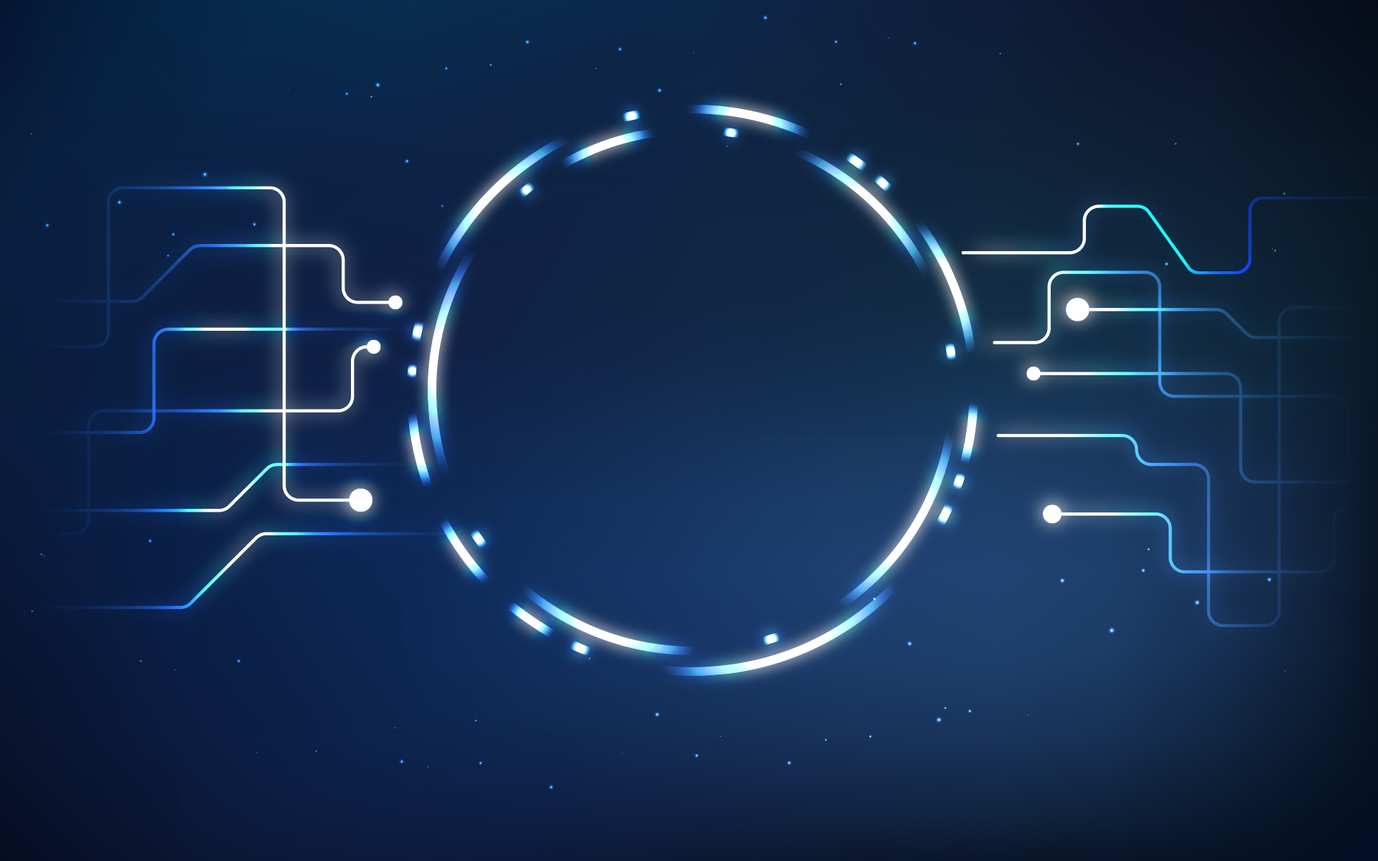
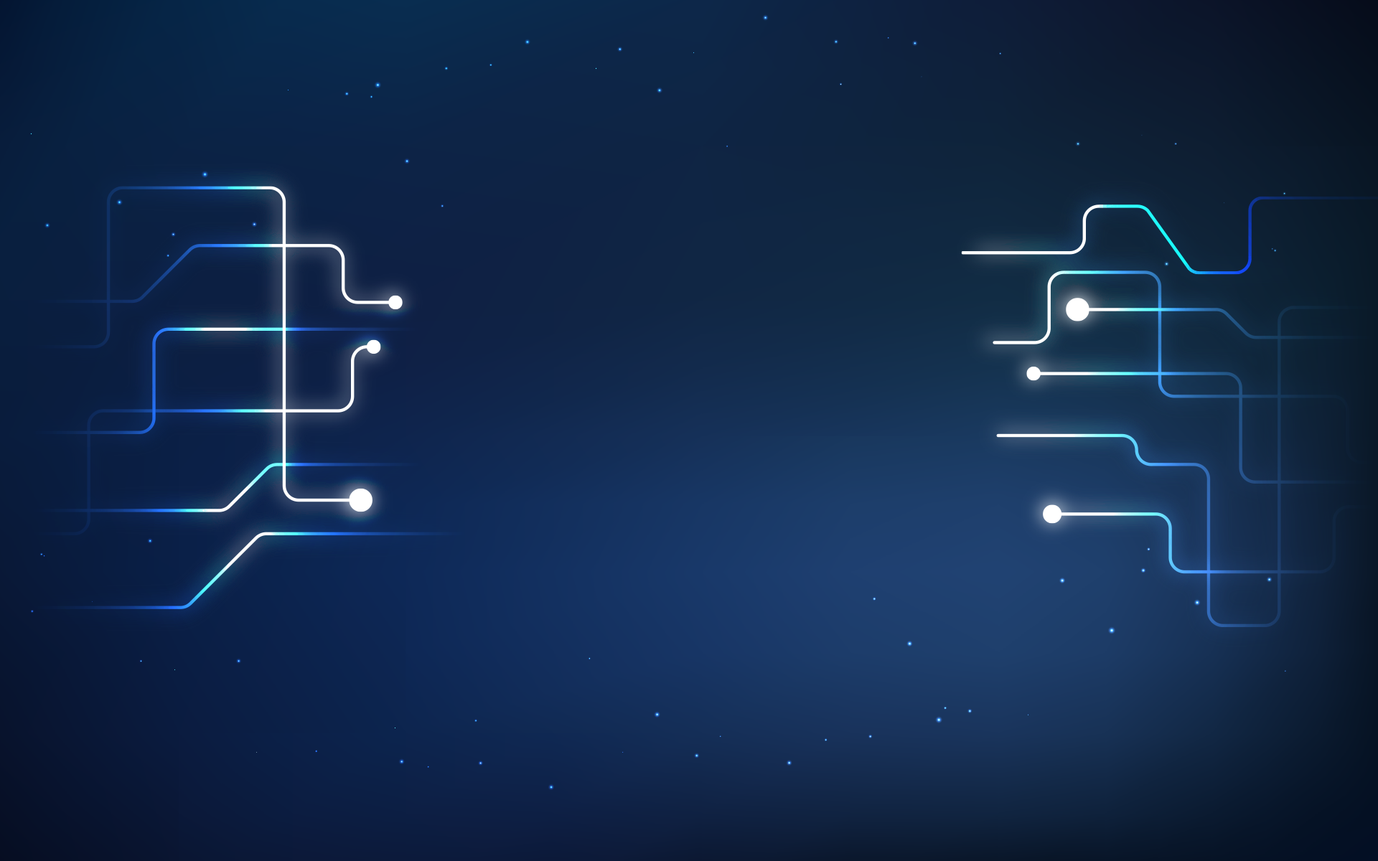
2
2

diff --git a/files/index/data.js b/files/index/data.js
@@ -1,7 +1,7 @@
 $axure.loadCurrentPage(
 (function() {
     var _ = function() { var r={},a=arguments; for(var i=0; i<a.length; i+=2) r[a[i]]=a[i+1]; return r; }
-    var _creator = function() { return _(b,c,d,e,f,g,h,g,i,[j],k,_(l,m,n,o,p,q,r,_(),s,_(t,u,v,w,x,_(y,z,A,B),C,null,D,w,E,w,F,G,H,null,I,J,K,L,M,N,O,J),P,_(),Q,_(),R,_(S,[_(T,U,V,W,X,Y,n,Z,ba,Z,bb,bc,s,_(t,bd,be,_(bf,bg,bh,bi)),P,_(),bj,_(),S,[_(T,bk,V,W,X,null,bl,bc,n,bm,ba,bn,bb,bc,s,_(t,bd,be,_(bf,bg,bh,bi)),P,_(),bj,_())],bo,_(bp,bq)),_(T,br,V,bs,X,Y,n,Z,ba,Z,bb,bc,s,_(t,bd,be,_(bf,bg,bh,bi)),P,_(),bj,_(),S,[_(T,bt,V,W,X,null,bl,bc,n,bm,ba,bn,bb,bc,s,_(t,bd,be,_(bf,bg,bh,bi)),P,_(),bj,_())],bo,_(bp,bu)),_(T,bv,V,bw,X,Y,n,Z,ba,Z,bb,g,s,_(t,bd,be,_(bf,bg,bh,bi),bb,g),P,_(),bj,_(),S,[_(T,bx,V,W,X,null,bl,bc,n,bm,ba,bn,bb,g,s,_(t,bd,be,_(bf,bg,bh,bi),bb,g),P,_(),bj,_())],bo,_(bp,by)),_(T,bz,V,bA,X,Y,n,Z,ba,Z,bb,bc,s,_(t,bd,be,_(bf,bg,bh,bi)),P,_(),bj,_(),S,[_(T,bB,V,W,X,null,bl,bc,n,bm,ba,bn,bb,bc,s,_(t,bd,be,_(bf,bg,bh,bi)),P,_(),bj,_())],Q,_(bC,_(bD,bE,bF,[_(bD,bG,bH,g,bI,[_(bJ,bK,bD,bL,bM,[_(bN,[bv],bO,_(bP,bQ,bR,_(bS,bT,bU,bV,bW,bT,bX,bV,bY,bZ,ca,g)))]),_(bJ,cb,bD,cc,cd,[_(bN,[ce],cf,_(bf,_(cg,ch,ci,cj,ck,[]),bh,_(cg,ch,ci,cl,ck,[]),cm,cn,bS,co,bU,cp))]),_(bJ,cq,bD,cr,cs,_(cg,ct,cu,[_(cg,cv,cw,cx,cy,[_(cg,cz,cA,g,cB,g,cC,g,ci,[cD]),_(cg,ch,ci,cE,ck,[])])]))])])),cF,bc,bo,_(bp,cG)),_(T,cH,V,W,X,Y,n,Z,ba,Z,bb,bc,s,_(t,bd,be,_(bf,cI,bh,cJ),cK,_(cL,cM,cN,cO)),P,_(),bj,_(),S,[_(T,cP,V,W,X,null,bl,bc,n,bm,ba,bn,bb,bc,s,_(t,bd,be,_(bf,cI,bh,cJ),cK,_(cL,cM,cN,cO)),P,_(),bj,_())],bo,_(bp,cQ)),_(T,ce,V,cR,X,cS,n,cT,ba,cT,bb,bc,s,_(be,_(bf,cU,bh,cV),t,cW,cK,_(cL,cX,cN,cY),cZ,da,x,_(y,db,dc,[_(A,dd),_(A,dd),_(A,de),_(A,de)])),P,_(),bj,_(),S,[_(T,df,V,W,X,null,bl,bc,n,bm,ba,bn,bb,bc,s,_(be,_(bf,cU,bh,cV),t,cW,cK,_(cL,cX,cN,cY),cZ,da,x,_(y,db,dc,[_(A,dd),_(A,dd),_(A,de),_(A,de)])),P,_(),bj,_())],dg,g),_(T,dh,V,W,X,cS,n,cT,ba,cT,bb,bc,s,_(di,dj,be,_(bf,dk,bh,dl),t,dm,cK,_(cL,cX,cN,dn),dp,_(y,z,A,B,dq,dr)),P,_(),bj,_(),S,[_(T,ds,V,W,X,null,bl,bc,n,bm,ba,bn,bb,bc,s,_(di,dj,be,_(bf,dk,bh,dl),t,dm,cK,_(cL,cX,cN,dn),dp,_(y,z,A,B,dq,dr)),P,_(),bj,_())],dg,g),_(T,cD,V,dt,X,cS,n,cT,ba,cT,bb,bc,s,_(di,dj,be,_(bf,du,bh,dl),t,dm,cK,_(cL,dv,cN,dn),dw,dx,dp,_(y,z,A,B,dq,dr)),P,_(),bj,_(),S,[_(T,dy,V,W,X,null,bl,bc,n,bm,ba,bn,bb,bc,s,_(di,dj,be,_(bf,du,bh,dl),t,dm,cK,_(cL,dv,cN,dn),dw,dx,dp,_(y,z,A,B,dq,dr)),P,_(),bj,_())],Q,_(dz,_(bD,dA,bF,[_(bD,dB,bH,g,dC,_(cg,dD,dE,dF,dG,_(cg,cv,cw,dH,cy,[_(cg,cz,cA,bc,cB,g,cC,g)]),dI,_(cg,ch,ci,dJ,ck,[])),bI,[_(bJ,cq,bD,dK,cs,_(cg,ct,cu,[_(cg,cv,cw,dL,cy,[_(cg,cz,cA,g,cB,g,cC,g,ci,[dy]),_(cg,ch,ci,dM,dN,_(dO,_(cg,cv,cw,dH,cy,[_(cg,cz,cA,bc,cB,g,cC,g)])),ck,[_(dP,dQ,dE,dR,dS,_(dP,dT,p,dO),dU,_(dV,dW,dP,dX,ci,dr))]),_(cg,dY,ci,bc)])])),_(bJ,dZ,bD,ea,eb,ec),_(bJ,cq,bD,cr,cs,_(cg,ct,cu,[_(cg,cv,cw,cx,cy,[_(cg,cz,cA,g,cB,g,cC,g,ci,[cD]),_(cg,ch,ci,cE,ck,[])])]))])])),dg,g)])),ed,_(),ee,_(ef,_(eg,eh),ei,_(eg,ej),ek,_(eg,el),em,_(eg,en),eo,_(eg,ep),eq,_(eg,er),es,_(eg,et),eu,_(eg,ev),ew,_(eg,ex),ey,_(eg,ez),eA,_(eg,eB),eC,_(eg,eD),eE,_(eg,eF),eG,_(eg,eH),eI,_(eg,eJ),eK,_(eg,eL)));}; 
-var b="url",c="index.html",d="generationDate",e=new Date(1545929803796.7),f="isCanvasEnabled",g=false,h="isAdaptiveEnabled",i="variables",j="OnLoadVariable",k="page",l="packageId",m="587c2299463848adaa3b182771561f1c",n="type",o="Axure:Page",p="name",q="index",r="notes",s="style",t="baseStyle",u="627587b6038d43cca051c114ac41ad32",v="pageAlignment",w="near",x="fill",y="fillType",z="solid",A="color",B=0xFFFFFFFF,C="image",D="imageHorizontalAlignment",E="imageVerticalAlignment",F="imageRepeat",G="auto",H="favicon",I="sketchFactor",J="0",K="colorStyle",L="appliedColor",M="fontName",N="Applied Font",O="borderWidth",P="adaptiveStyles",Q="interactionMap",R="diagram",S="objects",T="id",U="fa04f54b8c344a848b87f8c1ab4cecd9",V="label",W="",X="friendlyType",Y="图片",Z="imageBox",ba="styleType",bb="visible",bc=true,bd="75a91ee5b9d042cfa01b8d565fe289c0",be="size",bf="width",bg=1920,bh="height",bi=1200,bj="imageOverrides",bk="f1991d1e149842528388fc01c1334a27",bl="isContained",bm="richTextPanel",bn="paragraph",bo="images",bp="normal~",bq="images/index/u0.png",br="88515a62780c434fa28b4afacdc44007",bs="底圆",bt="fb3e7e9fc949433daf17eac96ac3c65f",bu="images/index/底圆_u2.png",bv="fae573733ccd4445a76c6f87e619aac7",bw="中层圆",bx="a01a0242cd16405d84bf2e9581fe13b4",by="images/index/中层圆_u4.png",bz="ece1ad3f2b454f85b6a81e4cf855cd40",bA="小圆",bB="1cfe11572f1d4a54a9589492c2f454ab",bC="onClick",bD="description",bE="鼠标单击时",bF="cases",bG="Case 1",bH="isNewIfGroup",bI="actions",bJ="action",bK="fadeWidget",bL="显示 中层圆 逐渐 3500 ms",bM="objectsToFades",bN="objectPath",bO="fadeInfo",bP="fadeType",bQ="show",bR="options",bS="easing",bT="fade",bU="duration",bV=3500,bW="easingHide",bX="durationHide",bY="showType",bZ="none",ca="bringToFront",cb="setWidgetSize",cc="设置尺寸于 进度条 to 1350 x 40 anchor 左侧 线性 3000ms",cd="objectsToResize",ce="3d61fab053df45898256bef4277c7867",cf="sizeInfo",cg="exprType",ch="stringLiteral",ci="value",cj="1350",ck="stos",cl="40",cm="anchor",cn="left",co="linear",cp=3000,cq="setFunction",cr="设置 选中状态于 进度数字 = &quot;toggle&quot;",cs="expr",ct="block",cu="subExprs",cv="fcall",cw="functionName",cx="SetCheckState",cy="arguments",cz="pathLiteral",cA="isThis",cB="isFocused",cC="isTarget",cD="b3b6c8c29bba42e8afe6cec496e67df5",cE="toggle",cF="tabbable",cG="images/index/小圆_u6.png",cH="abe6d68c592b43f2b65f782f4d3cf1d2",cI=1364,cJ=52,cK="location",cL="x",cM=278,cN="y",cO=1095.46153846154,cP="5499ded823304691aafbbbaed9146c87",cQ="images/index/u8.png",cR="进度条",cS="矩形",cT="vectorShape",cU=13,cV=40,cW="47641f9a00ac465095d6b672bbdffef6",cX=285,cY=1101,cZ="cornerRadius",da="4",db="linearGradient",dc="colors",dd=0xFF2BA3E9,de=0xFF2E417C,df="55a1b99d972c4677a1a3bbbb1b93a1f6",dg="generateCompound",dh="5d06c0d5aeed403eb471991738c22117",di="fontWeight",dj="700",dk=281,dl=37,dm="1111111151944dfba49f67fd55eb1f88",dn=1028,dp="foreGroundFill",dq="opacity",dr=1,ds="a4762fec45124b9781360c51c14c52a1",dt="进度数字",du=62,dv=472,dw="horizontalAlignment",dx="center",dy="c4e34aceaae14fa8a21a5c99492e923d",dz="onSelectedChange",dA="选中改变时",dB="Case 1<br> (If 文字于 This &lt; &quot;100&quot;)",dC="condition",dD="binaryOp",dE="op",dF="<",dG="leftExpr",dH="GetWidgetText",dI="rightExpr",dJ="100",dK="设置 文字于 进度数字 = &quot;[[LVAR1+1]]&quot;",dL="SetWidgetRichText",dM="[[LVAR1+1]]",dN="localVariables",dO="lvar1",dP="sto",dQ="binOp",dR="+",dS="leftSTO",dT="var",dU="rightSTO",dV="computedType",dW="int",dX="literal",dY="booleanLiteral",dZ="wait",ea="等待 15 毫秒",eb="waitTime",ec=15,ed="masters",ee="objectPaths",ef="fa04f54b8c344a848b87f8c1ab4cecd9",eg="scriptId",eh="u0",ei="f1991d1e149842528388fc01c1334a27",ej="u1",ek="88515a62780c434fa28b4afacdc44007",el="u2",em="fb3e7e9fc949433daf17eac96ac3c65f",en="u3",eo="fae573733ccd4445a76c6f87e619aac7",ep="u4",eq="a01a0242cd16405d84bf2e9581fe13b4",er="u5",es="ece1ad3f2b454f85b6a81e4cf855cd40",et="u6",eu="1cfe11572f1d4a54a9589492c2f454ab",ev="u7",ew="abe6d68c592b43f2b65f782f4d3cf1d2",ex="u8",ey="5499ded823304691aafbbbaed9146c87",ez="u9",eA="3d61fab053df45898256bef4277c7867",eB="u10",eC="55a1b99d972c4677a1a3bbbb1b93a1f6",eD="u11",eE="5d06c0d5aeed403eb471991738c22117",eF="u12",eG="a4762fec45124b9781360c51c14c52a1",eH="u13",eI="b3b6c8c29bba42e8afe6cec496e67df5",eJ="u14",eK="c4e34aceaae14fa8a21a5c99492e923d",eL="u15";
+    var _creator = function() { return _(b,c,d,e,f,g,h,g,i,[j],k,_(l,m,n,o,p,q,r,_(),s,_(t,u,v,w,x,_(y,z,A,B),C,null,D,E,F,E,G,H,I,null,J,K,L,M,N,O,P,K),Q,_(),R,_(S,_(T,U,V,[_(T,W,X,g,Y,[_(Z,ba,T,bb,bc,[_(bd,[be],bf,_(bg,bh,bi,_(bj,bk,bl,bm,bn,[]),bo,_(bj,bk,bl,K,bn,[]),bp,_(bj,bk,bl,K,bn,[]),bq,w,br,_(bs,bt,bu,bv,bw,bx))),_(bd,[by],bf,_(bg,bh,bi,_(bj,bk,bl,bm,bn,[]),bo,_(bj,bk,bl,K,bn,[]),bp,_(bj,bk,bl,K,bn,[]),bq,w,br,_(bs,g,bu,bv,bw,bx)))]),_(Z,bz,T,bA,bB,bC),_(Z,bD,T,bE,bF,_(bj,bG,bH,[_(bj,bI,bJ,bK,bL,[_(bj,bM,bN,g,bO,g,bP,g,bl,[bQ]),_(bj,bk,bl,bR,bn,[])])]))])])),bS,_(bT,[_(bU,bQ,bV,bW,bX,bY,n,bZ,ca,bZ,cb,bt,s,_(t,cc,cd,_(ce,cf,cg,ch)),Q,_(),ci,_(),bT,[_(bU,cj,bV,bW,bX,null,ck,bt,n,cl,ca,cm,cb,bt,s,_(t,cc,cd,_(ce,cf,cg,ch)),Q,_(),ci,_())],R,_(cn,_(T,co,V,[_(T,W,X,g,Y,[_(Z,ba,T,bb,bc,[_(bd,[be],bf,_(bg,bh,bi,_(bj,bk,bl,bm,bn,[]),bo,_(bj,bk,bl,K,bn,[]),bp,_(bj,bk,bl,K,bn,[]),bq,w,br,_(bs,bt,bu,bv,bw,bx))),_(bd,[by],bf,_(bg,bh,bi,_(bj,bk,bl,bm,bn,[]),bo,_(bj,bk,bl,K,bn,[]),bp,_(bj,bk,bl,K,bn,[]),bq,w,br,_(bs,g,bu,bv,bw,bx)))]),_(Z,bz,T,bA,bB,bC),_(Z,bD,T,bE,bF,_(bj,bG,bH,[_(bj,bI,bJ,bK,bL,[_(bj,bM,bN,g,bO,g,bP,g,bl,[bQ]),_(bj,bk,bl,bR,bn,[])])]))])])),cp,_(cq,cr)),_(bU,by,bV,cs,bX,bY,n,bZ,ca,bZ,cb,bt,s,_(t,cc,cd,_(ce,ct,cg,ct),cu,_(cv,cw,cx,cy),cz,cA),Q,_(),ci,_(),bT,[_(bU,cB,bV,bW,bX,null,ck,bt,n,cl,ca,cm,cb,bt,s,_(t,cc,cd,_(ce,ct,cg,ct),cu,_(cv,cw,cx,cy),cz,cA),Q,_(),ci,_())],cp,_(cq,cC)),_(bU,be,bV,cD,bX,bY,n,bZ,ca,bZ,cb,bt,s,_(t,cc,cd,_(ce,cE,cg,cE),cu,_(cv,cF,cx,cG),cz,cA,cH,cI,cJ,cI),Q,_(),ci,_(),bT,[_(bU,cK,bV,bW,bX,null,ck,bt,n,cl,ca,cm,cb,bt,s,_(t,cc,cd,_(ce,cE,cg,cE),cu,_(cv,cF,cx,cG),cz,cA,cH,cI,cJ,cI),Q,_(),ci,_())],cp,_(cq,cL)),_(bU,cM,bV,cN,bX,bY,n,bZ,ca,bZ,cb,bt,s,_(t,cc,cd,_(ce,cf,cg,ch)),Q,_(),ci,_(),bT,[_(bU,cO,bV,bW,bX,null,ck,bt,n,cl,ca,cm,cb,bt,s,_(t,cc,cd,_(ce,cf,cg,ch)),Q,_(),ci,_())],cp,_(cq,cP)),_(bU,cQ,bV,cR,bX,bY,n,bZ,ca,bZ,cb,g,s,_(t,cc,cd,_(ce,cf,cg,ch),cb,g),Q,_(),ci,_(),bT,[_(bU,cS,bV,bW,bX,null,ck,bt,n,cl,ca,cm,cb,g,s,_(t,cc,cd,_(ce,cf,cg,ch),cb,g),Q,_(),ci,_())],cp,_(cq,cT)),_(bU,cU,bV,cV,bX,bY,n,bZ,ca,bZ,cb,bt,s,_(t,cc,cd,_(ce,cf,cg,ch)),Q,_(),ci,_(),bT,[_(bU,cW,bV,bW,bX,null,ck,bt,n,cl,ca,cm,cb,bt,s,_(t,cc,cd,_(ce,cf,cg,ch)),Q,_(),ci,_())],R,_(cX,_(T,cY,V,[_(T,W,X,g,Y,[_(Z,cZ,T,da,db,[_(bd,[cQ],dc,_(dd,de,br,_(bu,df,bw,dg,dh,df,di,dg,dj,dk,dl,g)))]),_(Z,dm,T,dn,dp,[_(bd,[dq],dr,_(ce,_(bj,bk,bl,ds,bn,[]),cg,_(bj,bk,bl,dt,bn,[]),bq,du,bu,bv,bw,dv))]),_(Z,bD,T,dw,bF,_(bj,bG,bH,[_(bj,bI,bJ,bK,bL,[_(bj,bM,bN,g,bO,g,bP,g,bl,[dx]),_(bj,bk,bl,bR,bn,[])])]))])])),dy,bt,cp,_(cq,dz)),_(bU,dA,bV,bW,bX,bY,n,bZ,ca,bZ,cb,bt,s,_(t,cc,cd,_(ce,dB,cg,dC),cu,_(cv,dD,cx,dE)),Q,_(),ci,_(),bT,[_(bU,dF,bV,bW,bX,null,ck,bt,n,cl,ca,cm,cb,bt,s,_(t,cc,cd,_(ce,dB,cg,dC),cu,_(cv,dD,cx,dE)),Q,_(),ci,_())],cp,_(cq,dG)),_(bU,dq,bV,dH,bX,dI,n,dJ,ca,dJ,cb,bt,s,_(cd,_(ce,dK,cg,dL),t,dM,cu,_(cv,dN,cx,dO),dP,dQ,x,_(y,dR,dS,[_(A,dT),_(A,dT),_(A,dU),_(A,dU)])),Q,_(),ci,_(),bT,[_(bU,dV,bV,bW,bX,null,ck,bt,n,cl,ca,cm,cb,bt,s,_(cd,_(ce,dK,cg,dL),t,dM,cu,_(cv,dN,cx,dO),dP,dQ,x,_(y,dR,dS,[_(A,dT),_(A,dT),_(A,dU),_(A,dU)])),Q,_(),ci,_())],dW,g),_(bU,dX,bV,bW,bX,dI,n,dJ,ca,dJ,cb,bt,s,_(dY,dZ,cd,_(ce,ea,cg,eb),t,ec,cu,_(cv,dN,cx,ed),ee,_(y,z,A,B,cz,ef)),Q,_(),ci,_(),bT,[_(bU,eg,bV,bW,bX,null,ck,bt,n,cl,ca,cm,cb,bt,s,_(dY,dZ,cd,_(ce,ea,cg,eb),t,ec,cu,_(cv,dN,cx,ed),ee,_(y,z,A,B,cz,ef)),Q,_(),ci,_())],dW,g),_(bU,dx,bV,eh,bX,dI,n,dJ,ca,dJ,cb,bt,s,_(dY,dZ,cd,_(ce,ei,cg,eb),t,ec,cu,_(cv,ej,cx,ed),ek,w,ee,_(y,z,A,B,cz,ef)),Q,_(),ci,_(),bT,[_(bU,el,bV,bW,bX,null,ck,bt,n,cl,ca,cm,cb,bt,s,_(dY,dZ,cd,_(ce,ei,cg,eb),t,ec,cu,_(cv,ej,cx,ed),ek,w,ee,_(y,z,A,B,cz,ef)),Q,_(),ci,_())],R,_(cn,_(T,co,V,[_(T,em,X,g,en,_(bj,eo,ep,eq,er,_(bj,bI,bJ,es,bL,[_(bj,bM,bN,bt,bO,g,bP,g)]),et,_(bj,bk,bl,eu,bn,[])),Y,[_(Z,bD,T,ev,bF,_(bj,bG,bH,[_(bj,bI,bJ,ew,bL,[_(bj,bM,bN,g,bO,g,bP,g,bl,[el]),_(bj,bk,bl,ex,ey,_(ez,_(bj,bI,bJ,es,bL,[_(bj,bM,bN,bt,bO,g,bP,g)])),bn,[_(eA,eB,ep,eC,eD,_(eA,eE,p,ez),eF,_(eG,eH,eA,eI,bl,ef))]),_(bj,eJ,bl,bt)])])),_(Z,bz,T,eK,bB,eL),_(Z,bD,T,dw,bF,_(bj,bG,bH,[_(bj,bI,bJ,bK,bL,[_(bj,bM,bN,g,bO,g,bP,g,bl,[dx]),_(bj,bk,bl,bR,bn,[])])]))])])),dW,g)])),eM,_(),eN,_(eO,_(eP,eQ),eR,_(eP,eS),eT,_(eP,eU),eV,_(eP,eW),eX,_(eP,eY),eZ,_(eP,fa),fb,_(eP,fc),fd,_(eP,fe),ff,_(eP,fg),fh,_(eP,fi),fj,_(eP,fk),fl,_(eP,fm),fn,_(eP,fo),fp,_(eP,fq),fr,_(eP,fs),ft,_(eP,fu),fv,_(eP,fw),fx,_(eP,fy),fz,_(eP,fA),fB,_(eP,fC)));}; 
+var b="url",c="index.html",d="generationDate",e=new Date(1545931041206.74),f="isCanvasEnabled",g=false,h="isAdaptiveEnabled",i="variables",j="OnLoadVariable",k="page",l="packageId",m="587c2299463848adaa3b182771561f1c",n="type",o="Axure:Page",p="name",q="index",r="notes",s="style",t="baseStyle",u="627587b6038d43cca051c114ac41ad32",v="pageAlignment",w="center",x="fill",y="fillType",z="solid",A="color",B=0xFFFFFFFF,C="image",D="imageHorizontalAlignment",E="near",F="imageVerticalAlignment",G="imageRepeat",H="auto",I="favicon",J="sketchFactor",K="0",L="colorStyle",M="appliedColor",N="fontName",O="Applied Font",P="borderWidth",Q="adaptiveStyles",R="interactionMap",S="onLoad",T="description",U="页面载入时",V="cases",W="Case 1",X="isNewIfGroup",Y="actions",Z="action",ba="rotateWidget",bb="旋转xiao by 360 deg 线性 10000ms clockwise anchor center,<br>da by 360 deg 线性 10000ms counterclockwise anchor center",bc="objectsToRotate",bd="objectPath",be="38f68cb97f204092b218853e0ac46013",bf="rotateInfo",bg="rotateType",bh="delta",bi="degree",bj="exprType",bk="stringLiteral",bl="value",bm="360",bn="stos",bo="offsetX",bp="offsetY",bq="anchor",br="options",bs="clockwise",bt=true,bu="easing",bv="linear",bw="duration",bx=10000,by="9d2206a8b58e4633b198583c1cc8b814",bz="wait",bA="等待 20 毫秒",bB="waitTime",bC=20,bD="setFunction",bE="设置 选中状态于 (图片) = &quot;toggle&quot;",bF="expr",bG="block",bH="subExprs",bI="fcall",bJ="functionName",bK="SetCheckState",bL="arguments",bM="pathLiteral",bN="isThis",bO="isFocused",bP="isTarget",bQ="48e8b4e211fe4c659c221a5a716f8e2c",bR="toggle",bS="diagram",bT="objects",bU="id",bV="label",bW="",bX="friendlyType",bY="图片",bZ="imageBox",ca="styleType",cb="visible",cc="75a91ee5b9d042cfa01b8d565fe289c0",cd="size",ce="width",cf=1920,cg="height",ch=1200,ci="imageOverrides",cj="149f686477ee4d5592b2b33e1c535db9",ck="isContained",cl="richTextPanel",cm="paragraph",cn="onSelectedChange",co="选中改变时",cp="images",cq="normal~",cr="images/index/u0.png",cs="da",ct=900,cu="location",cv="x",cw=518,cx="y",cy=90,cz="opacity",cA="0.5",cB="5de9832e4c6f418fa8344fae6f0a727e",cC="images/index/da_u2.png",cD="xiao",cE=840,cF=548,cG=120,cH="rotation",cI="30",cJ="textRotation",cK="4e4d15c679614de4a950e92a5a8dd8e6",cL="images/index/xiao_u4.png",cM="88515a62780c434fa28b4afacdc44007",cN="底圆",cO="fb3e7e9fc949433daf17eac96ac3c65f",cP="images/index/底圆_u6.png",cQ="fae573733ccd4445a76c6f87e619aac7",cR="中层圆",cS="a01a0242cd16405d84bf2e9581fe13b4",cT="images/index/中层圆_u8.png",cU="ece1ad3f2b454f85b6a81e4cf855cd40",cV="小圆",cW="1cfe11572f1d4a54a9589492c2f454ab",cX="onClick",cY="鼠标单击时",cZ="fadeWidget",da="显示 中层圆 逐渐 3500 ms",db="objectsToFades",dc="fadeInfo",dd="fadeType",de="show",df="fade",dg=3500,dh="easingHide",di="durationHide",dj="showType",dk="none",dl="bringToFront",dm="setWidgetSize",dn="设置尺寸于 进度条 to 1350 x 40 anchor 左侧 线性 3000ms",dp="objectsToResize",dq="3d61fab053df45898256bef4277c7867",dr="sizeInfo",ds="1350",dt="40",du="left",dv=3000,dw="设置 选中状态于 进度数字 = &quot;toggle&quot;",dx="b3b6c8c29bba42e8afe6cec496e67df5",dy="tabbable",dz="images/index/小圆_u10.png",dA="abe6d68c592b43f2b65f782f4d3cf1d2",dB=1364,dC=52,dD=278,dE=1095.46153846154,dF="5499ded823304691aafbbbaed9146c87",dG="images/index/u12.png",dH="进度条",dI="矩形",dJ="vectorShape",dK=13,dL=40,dM="47641f9a00ac465095d6b672bbdffef6",dN=285,dO=1101,dP="cornerRadius",dQ="4",dR="linearGradient",dS="colors",dT=0xFF2BA3E9,dU=0xFF2E417C,dV="55a1b99d972c4677a1a3bbbb1b93a1f6",dW="generateCompound",dX="5d06c0d5aeed403eb471991738c22117",dY="fontWeight",dZ="700",ea=281,eb=37,ec="1111111151944dfba49f67fd55eb1f88",ed=1028,ee="foreGroundFill",ef=1,eg="a4762fec45124b9781360c51c14c52a1",eh="进度数字",ei=62,ej=472,ek="horizontalAlignment",el="c4e34aceaae14fa8a21a5c99492e923d",em="Case 1<br> (If 文字于 This &lt; &quot;100&quot;)",en="condition",eo="binaryOp",ep="op",eq="<",er="leftExpr",es="GetWidgetText",et="rightExpr",eu="100",ev="设置 文字于 进度数字 = &quot;[[LVAR1+1]]&quot;",ew="SetWidgetRichText",ex="[[LVAR1+1]]",ey="localVariables",ez="lvar1",eA="sto",eB="binOp",eC="+",eD="leftSTO",eE="var",eF="rightSTO",eG="computedType",eH="int",eI="literal",eJ="booleanLiteral",eK="等待 15 毫秒",eL=15,eM="masters",eN="objectPaths",eO="48e8b4e211fe4c659c221a5a716f8e2c",eP="scriptId",eQ="u0",eR="149f686477ee4d5592b2b33e1c535db9",eS="u1",eT="9d2206a8b58e4633b198583c1cc8b814",eU="u2",eV="5de9832e4c6f418fa8344fae6f0a727e",eW="u3",eX="38f68cb97f204092b218853e0ac46013",eY="u4",eZ="4e4d15c679614de4a950e92a5a8dd8e6",fa="u5",fb="88515a62780c434fa28b4afacdc44007",fc="u6",fd="fb3e7e9fc949433daf17eac96ac3c65f",fe="u7",ff="fae573733ccd4445a76c6f87e619aac7",fg="u8",fh="a01a0242cd16405d84bf2e9581fe13b4",fi="u9",fj="ece1ad3f2b454f85b6a81e4cf855cd40",fk="u10",fl="1cfe11572f1d4a54a9589492c2f454ab",fm="u11",fn="abe6d68c592b43f2b65f782f4d3cf1d2",fo="u12",fp="5499ded823304691aafbbbaed9146c87",fq="u13",fr="3d61fab053df45898256bef4277c7867",fs="u14",ft="55a1b99d972c4677a1a3bbbb1b93a1f6",fu="u15",fv="5d06c0d5aeed403eb471991738c22117",fw="u16",fx="a4762fec45124b9781360c51c14c52a1",fy="u17",fz="b3b6c8c29bba42e8afe6cec496e67df5",fA="u18",fB="c4e34aceaae14fa8a21a5c99492e923d",fC="u19";
 return _creator();
 })());

diff --git a/index.html b/index.html
@@ -60,65 +60,83 @@
         </div>
       </div>
 
-      <!-- 底圆 (图片) -->
-      <div id="u2" class="ax_default _图片" data-label="底圆">
-        <img id="u2_img" class="img " src="images/index/底圆_u2.png"/>
+      <!-- da (图片) -->
+      <div id="u2" class="ax_default _图片" data-label="da">
+        <img id="u2_img" class="img " src="images/index/da_u2.png"/>
         <!-- Unnamed () -->
         <div id="u3" class="text" style="display: none; visibility: hidden">
           <p><span></span></p>
         </div>
       </div>
 
-      <!-- 中层圆 (图片) -->
-      <div id="u4" class="ax_default _图片 ax_default_hidden" data-label="中层圆" style="display: none; visibility: hidden">
-        <img id="u4_img" class="img " src="images/index/中层圆_u4.png"/>
+      <!-- xiao (图片) -->
+      <div id="u4" class="ax_default _图片" data-label="xiao">
+        <img id="u4_img" class="img " src="images/index/xiao_u4.png"/>
         <!-- Unnamed () -->
         <div id="u5" class="text" style="display: none; visibility: hidden">
           <p><span></span></p>
         </div>
       </div>
 
-      <!-- 小圆 (图片) -->
-      <div id="u6" class="ax_default _图片" data-label="小圆">
-        <img id="u6_img" class="img " src="images/index/小圆_u6.png"/>
+      <!-- 底圆 (图片) -->
+      <div id="u6" class="ax_default _图片" data-label="底圆">
+        <img id="u6_img" class="img " src="images/index/底圆_u6.png"/>
         <!-- Unnamed () -->
         <div id="u7" class="text" style="display: none; visibility: hidden">
           <p><span></span></p>
         </div>
       </div>
 
-      <!-- Unnamed (图片) -->
-      <div id="u8" class="ax_default _图片">
-        <img id="u8_img" class="img " src="images/index/u8.png"/>
+      <!-- 中层圆 (图片) -->
+      <div id="u8" class="ax_default _图片 ax_default_hidden" data-label="中层圆" style="display: none; visibility: hidden">
+        <img id="u8_img" class="img " src="images/index/中层圆_u8.png"/>
         <!-- Unnamed () -->
         <div id="u9" class="text" style="display: none; visibility: hidden">
           <p><span></span></p>
         </div>
       </div>
 
-      <!-- 进度条 (矩形) -->
-      <div id="u10" class="ax_default box_2" data-label="进度条">
-        <div id="u10_div" class=""></div>
+      <!-- 小圆 (图片) -->
+      <div id="u10" class="ax_default _图片" data-label="小圆">
+        <img id="u10_img" class="img " src="images/index/小圆_u10.png"/>
         <!-- Unnamed () -->
         <div id="u11" class="text" style="display: none; visibility: hidden">
           <p><span></span></p>
         </div>
       </div>
 
-      <!-- Unnamed (矩形) -->
-      <div id="u12" class="ax_default _一级标题">
-        <div id="u12_div" class=""></div>
+      <!-- Unnamed (图片) -->
+      <div id="u12" class="ax_default _图片">
+        <img id="u12_img" class="img " src="images/index/u12.png"/>
         <!-- Unnamed () -->
-        <div id="u13" class="text" style="visibility: visible;">
+        <div id="u13" class="text" style="display: none; visibility: hidden">
+          <p><span></span></p>
+        </div>
+      </div>
+
+      <!-- 进度条 (矩形) -->
+      <div id="u14" class="ax_default box_2" data-label="进度条">
+        <div id="u14_div" class=""></div>
+        <!-- Unnamed () -->
+        <div id="u15" class="text" style="display: none; visibility: hidden">
+          <p><span></span></p>
+        </div>
+      </div>
+
+      <!-- Unnamed (矩形) -->
+      <div id="u16" class="ax_default _一级标题">
+        <div id="u16_div" class=""></div>
+        <!-- Unnamed () -->
+        <div id="u17" class="text" style="visibility: visible;">
           <p><span>正在启动......&nbsp; &nbsp; &nbsp; &nbsp; %</span></p>
         </div>
       </div>
 
       <!-- 进度数字 (矩形) -->
-      <div id="u14" class="ax_default _一级标题" data-label="进度数字">
-        <div id="u14_div" class=""></div>
+      <div id="u18" class="ax_default _一级标题" data-label="进度数字">
+        <div id="u18_div" class=""></div>
         <!-- Unnamed () -->
-        <div id="u15" class="text" style="visibility: visible;">
+        <div id="u19" class="text" style="visibility: visible;">
           <p><span>0</span></p>
         </div>
       </div>

diff --git a/files/index/styles.css b/files/index/styles.css
@@ -1,11 +1,11 @@
 body {
   margin:0px;
   background-image:none;
-  position:static;
-  left:auto;
+  position:relative;
+  left:-0px;
   width:1920px;
-  margin-left:0;
-  margin-right:0;
+  margin-left:auto;
+  margin-right:auto;
   text-align:left;
 }
 #base {
@@ -38,21 +38,22 @@
   position:absolute;
   left:0px;
   top:0px;
-  width:1920px;
-  height:1200px;
+  width:900px;
+  height:900px;
 }
 #u2 {
   position:absolute;
-  left:0px;
-  top:0px;
-  width:1920px;
-  height:1200px;
+  left:518px;
+  top:90px;
+  width:900px;
+  height:900px;
+  opacity:0.5;
 }
 #u3 {
   position:absolute;
   left:2px;
-  top:592px;
-  width:1916px;
+  top:442px;
+  width:896px;
   visibility:hidden;
   word-wrap:break-word;
 }
@@ -60,21 +61,26 @@
   position:absolute;
   left:0px;
   top:0px;
-  width:1920px;
-  height:1200px;
+  width:840px;
+  height:840px;
 }
 #u4 {
   position:absolute;
-  left:0px;
-  top:0px;
-  width:1920px;
-  height:1200px;
+  left:548px;
+  top:120px;
+  width:840px;
+  height:840px;
+  -webkit-transform:rotate(30deg);
+  -moz-transform:rotate(30deg);
+  -ms-transform:rotate(30deg);
+  transform:rotate(30deg);
+  opacity:0.5;
 }
 #u5 {
   position:absolute;
   left:2px;
-  top:592px;
-  width:1916px;
+  top:412px;
+  width:836px;
   visibility:hidden;
   word-wrap:break-word;
 }
@@ -104,17 +110,61 @@
   position:absolute;
   left:0px;
   top:0px;
+  width:1920px;
+  height:1200px;
+}
+#u8 {
+  position:absolute;
+  left:0px;
+  top:0px;
+  width:1920px;
+  height:1200px;
+}
+#u9 {
+  position:absolute;
+  left:2px;
+  top:592px;
+  width:1916px;
+  visibility:hidden;
+  word-wrap:break-word;
+}
+#u10_img {
+  position:absolute;
+  left:0px;
+  top:0px;
+  width:1920px;
+  height:1200px;
+}
+#u10 {
+  position:absolute;
+  left:0px;
+  top:0px;
+  width:1920px;
+  height:1200px;
+}
+#u11 {
+  position:absolute;
+  left:2px;
+  top:592px;
+  width:1916px;
+  visibility:hidden;
+  word-wrap:break-word;
+}
+#u12_img {
+  position:absolute;
+  left:0px;
+  top:0px;
   width:1364px;
   height:52px;
 }
-#u8 {
+#u12 {
   position:absolute;
   left:278px;
   top:1095px;
   width:1364px;
   height:52px;
 }
-#u9 {
+#u13 {
   position:absolute;
   left:2px;
   top:18px;
@@ -122,7 +172,7 @@
   visibility:hidden;
   word-wrap:break-word;
 }
-#u10_div {
+#u14_div {
   position:absolute;
   left:0px;
   top:0px;
@@ -137,14 +187,14 @@
   -webkit-box-shadow:none;
   box-shadow:none;
 }
-#u10 {
+#u14 {
   position:absolute;
   left:285px;
   top:1101px;
   width:13px;
   height:40px;
 }
-#u11 {
+#u15 {
   position:absolute;
   left:2px;
   top:12px;
@@ -152,7 +202,7 @@
   visibility:hidden;
   word-wrap:break-word;
 }
-#u12_div {
+#u16_div {
   position:absolute;
   left:0px;
   top:0px;
@@ -170,7 +220,7 @@
   font-style:normal;
   color:#FFFFFF;
 }
-#u12 {
+#u16 {
   position:absolute;
   left:285px;
   top:1028px;
@@ -181,14 +231,14 @@
   font-style:normal;
   color:#FFFFFF;
 }
-#u13 {
+#u17 {
   position:absolute;
   left:0px;
   top:0px;
   width:281px;
   white-space:nowrap;
 }
-#u14_div {
+#u18_div {
   position:absolute;
   left:0px;
   top:0px;
@@ -207,7 +257,7 @@
   color:#FFFFFF;
   text-align:center;
 }
-#u14 {
+#u18 {
   position:absolute;
   left:472px;
   top:1028px;
@@ -219,7 +269,7 @@
   color:#FFFFFF;
   text-align:center;
 }
-#u15 {
+#u19 {
   position:absolute;
   left:0px;
   top:0px;

diff --git a/files/page1/data.js b/files/page1/data.js
@@ -2,6 +2,6 @@
 (function() {
     var _ = function() { var r={},a=arguments; for(var i=0; i<a.length; i+=2) r[a[i]]=a[i+1]; return r; }
     var _creator = function() { return _(b,c,d,e,f,g,h,g,i,[j],k,_(l,m,n,o,p,q,r,_(),s,_(t,u,v,w,x,_(y,z,A,B),C,null,D,w,E,w,F,G,H,null,I,J,K,L,M,N,O,J),P,_(),Q,_(),R,_(S,[])),T,_(),U,_());}; 
-var b="url",c="page1.html",d="generationDate",e=new Date(1545929803879.53),f="isCanvasEnabled",g=false,h="isAdaptiveEnabled",i="variables",j="OnLoadVariable",k="page",l="packageId",m="b93b2b0471f945e7aab5c5d099efcf0e",n="type",o="Axure:Page",p="name",q="page1",r="notes",s="style",t="baseStyle",u="627587b6038d43cca051c114ac41ad32",v="pageAlignment",w="near",x="fill",y="fillType",z="solid",A="color",B=0xFFFFFFFF,C="image",D="imageHorizontalAlignment",E="imageVerticalAlignment",F="imageRepeat",G="auto",H="favicon",I="sketchFactor",J="0",K="colorStyle",L="appliedColor",M="fontName",N="Applied Font",O="borderWidth",P="adaptiveStyles",Q="interactionMap",R="diagram",S="objects",T="masters",U="objectPaths";
+var b="url",c="page1.html",d="generationDate",e=new Date(1545931041235.66),f="isCanvasEnabled",g=false,h="isAdaptiveEnabled",i="variables",j="OnLoadVariable",k="page",l="packageId",m="b93b2b0471f945e7aab5c5d099efcf0e",n="type",o="Axure:Page",p="name",q="page1",r="notes",s="style",t="baseStyle",u="627587b6038d43cca051c114ac41ad32",v="pageAlignment",w="near",x="fill",y="fillType",z="solid",A="color",B=0xFFFFFFFF,C="image",D="imageHorizontalAlignment",E="imageVerticalAlignment",F="imageRepeat",G="auto",H="favicon",I="sketchFactor",J="0",K="colorStyle",L="appliedColor",M="fontName",N="Applied Font",O="borderWidth",P="adaptiveStyles",Q="interactionMap",R="diagram",S="objects",T="masters",U="objectPaths";
 return _creator();
 })());

diff --git a/files/page2/data.js b/files/page2/data.js
@@ -2,6 +2,6 @@
 (function() {
     var _ = function() { var r={},a=arguments; for(var i=0; i<a.length; i+=2) r[a[i]]=a[i+1]; return r; }
     var _creator = function() { return _(b,c,d,e,f,g,h,g,i,[j],k,_(l,m,n,o,p,q,r,_(),s,_(t,u,v,w,x,_(y,z,A,B),C,null,D,w,E,w,F,G,H,null,I,J,K,L,M,N,O,J),P,_(),Q,_(),R,_(S,[])),T,_(),U,_());}; 
-var b="url",c="page2.html",d="generationDate",e=new Date(1545929803894.49),f="isCanvasEnabled",g=false,h="isAdaptiveEnabled",i="variables",j="OnLoadVariable",k="page",l="packageId",m="af9bce9a117f475c84daf8cd98dccfca",n="type",o="Axure:Page",p="name",q="page2",r="notes",s="style",t="baseStyle",u="627587b6038d43cca051c114ac41ad32",v="pageAlignment",w="near",x="fill",y="fillType",z="solid",A="color",B=0xFFFFFFFF,C="image",D="imageHorizontalAlignment",E="imageVerticalAlignment",F="imageRepeat",G="auto",H="favicon",I="sketchFactor",J="0",K="colorStyle",L="appliedColor",M="fontName",N="Applied Font",O="borderWidth",P="adaptiveStyles",Q="interactionMap",R="diagram",S="objects",T="masters",U="objectPaths";
+var b="url",c="page2.html",d="generationDate",e=new Date(1545931041244.63),f="isCanvasEnabled",g=false,h="isAdaptiveEnabled",i="variables",j="OnLoadVariable",k="page",l="packageId",m="af9bce9a117f475c84daf8cd98dccfca",n="type",o="Axure:Page",p="name",q="page2",r="notes",s="style",t="baseStyle",u="627587b6038d43cca051c114ac41ad32",v="pageAlignment",w="near",x="fill",y="fillType",z="solid",A="color",B=0xFFFFFFFF,C="image",D="imageHorizontalAlignment",E="imageVerticalAlignment",F="imageRepeat",G="auto",H="favicon",I="sketchFactor",J="0",K="colorStyle",L="appliedColor",M="fontName",N="Applied Font",O="borderWidth",P="adaptiveStyles",Q="interactionMap",R="diagram",S="objects",T="masters",U="objectPaths";
 return _creator();
 })());

diff --git a/files/page3/data.js b/files/page3/data.js
@@ -2,6 +2,6 @@
 (function() {
     var _ = function() { var r={},a=arguments; for(var i=0; i<a.length; i+=2) r[a[i]]=a[i+1]; return r; }
     var _creator = function() { return _(b,c,d,e,f,g,h,g,i,[j],k,_(l,m,n,o,p,q,r,_(),s,_(t,u,v,w,x,_(y,z,A,B),C,null,D,w,E,w,F,G,H,null,I,J,K,L,M,N,O,J),P,_(),Q,_(),R,_(S,[])),T,_(),U,_());}; 
-var b="url",c="page3.html",d="generationDate",e=new Date(1545929803907.41),f="isCanvasEnabled",g=false,h="isAdaptiveEnabled",i="variables",j="OnLoadVariable",k="page",l="packageId",m="970ab514f5564c378d1cc625f787b884",n="type",o="Axure:Page",p="name",q="page3",r="notes",s="style",t="baseStyle",u="627587b6038d43cca051c114ac41ad32",v="pageAlignment",w="near",x="fill",y="fillType",z="solid",A="color",B=0xFFFFFFFF,C="image",D="imageHorizontalAlignment",E="imageVerticalAlignment",F="imageRepeat",G="auto",H="favicon",I="sketchFactor",J="0",K="colorStyle",L="appliedColor",M="fontName",N="Applied Font",O="borderWidth",P="adaptiveStyles",Q="interactionMap",R="diagram",S="objects",T="masters",U="objectPaths";
+var b="url",c="page3.html",d="generationDate",e=new Date(1545931041253.61),f="isCanvasEnabled",g=false,h="isAdaptiveEnabled",i="variables",j="OnLoadVariable",k="page",l="packageId",m="970ab514f5564c378d1cc625f787b884",n="type",o="Axure:Page",p="name",q="page3",r="notes",s="style",t="baseStyle",u="627587b6038d43cca051c114ac41ad32",v="pageAlignment",w="near",x="fill",y="fillType",z="solid",A="color",B=0xFFFFFFFF,C="image",D="imageHorizontalAlignment",E="imageVerticalAlignment",F="imageRepeat",G="auto",H="favicon",I="sketchFactor",J="0",K="colorStyle",L="appliedColor",M="fontName",N="Applied Font",O="borderWidth",P="adaptiveStyles",Q="interactionMap",R="diagram",S="objects",T="masters",U="objectPaths";
 return _creator();
 })());
